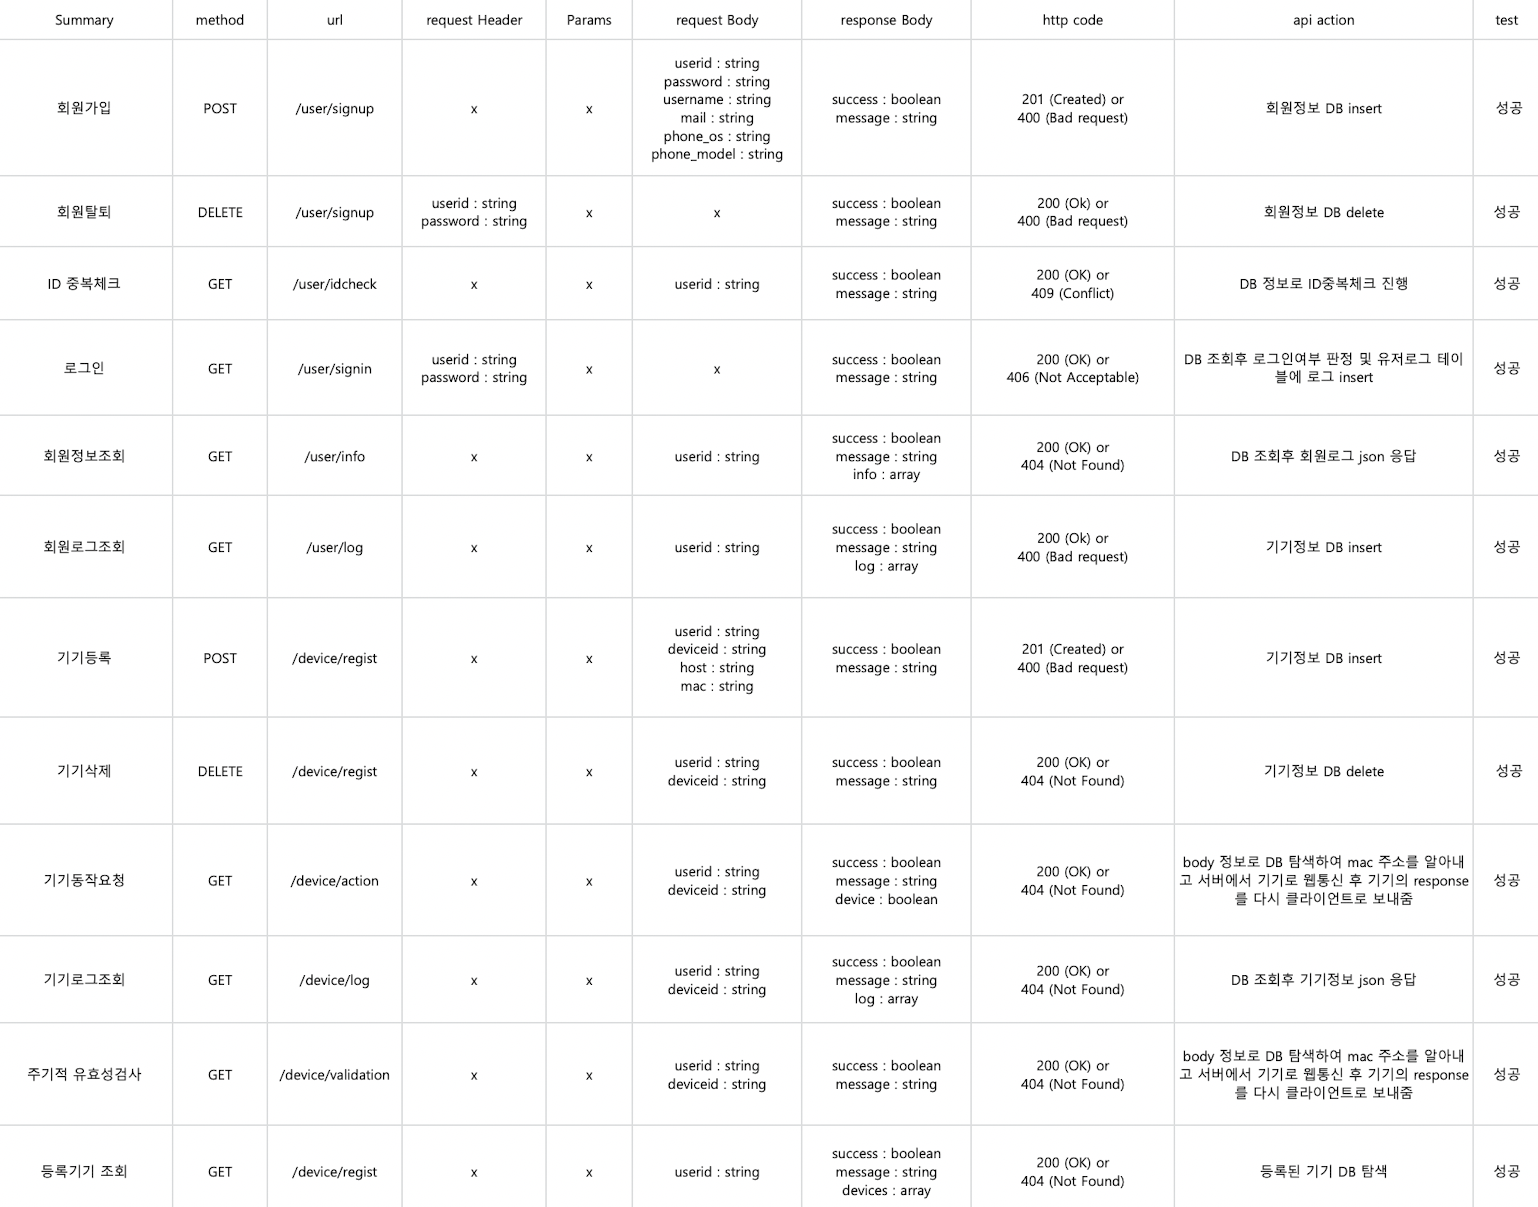
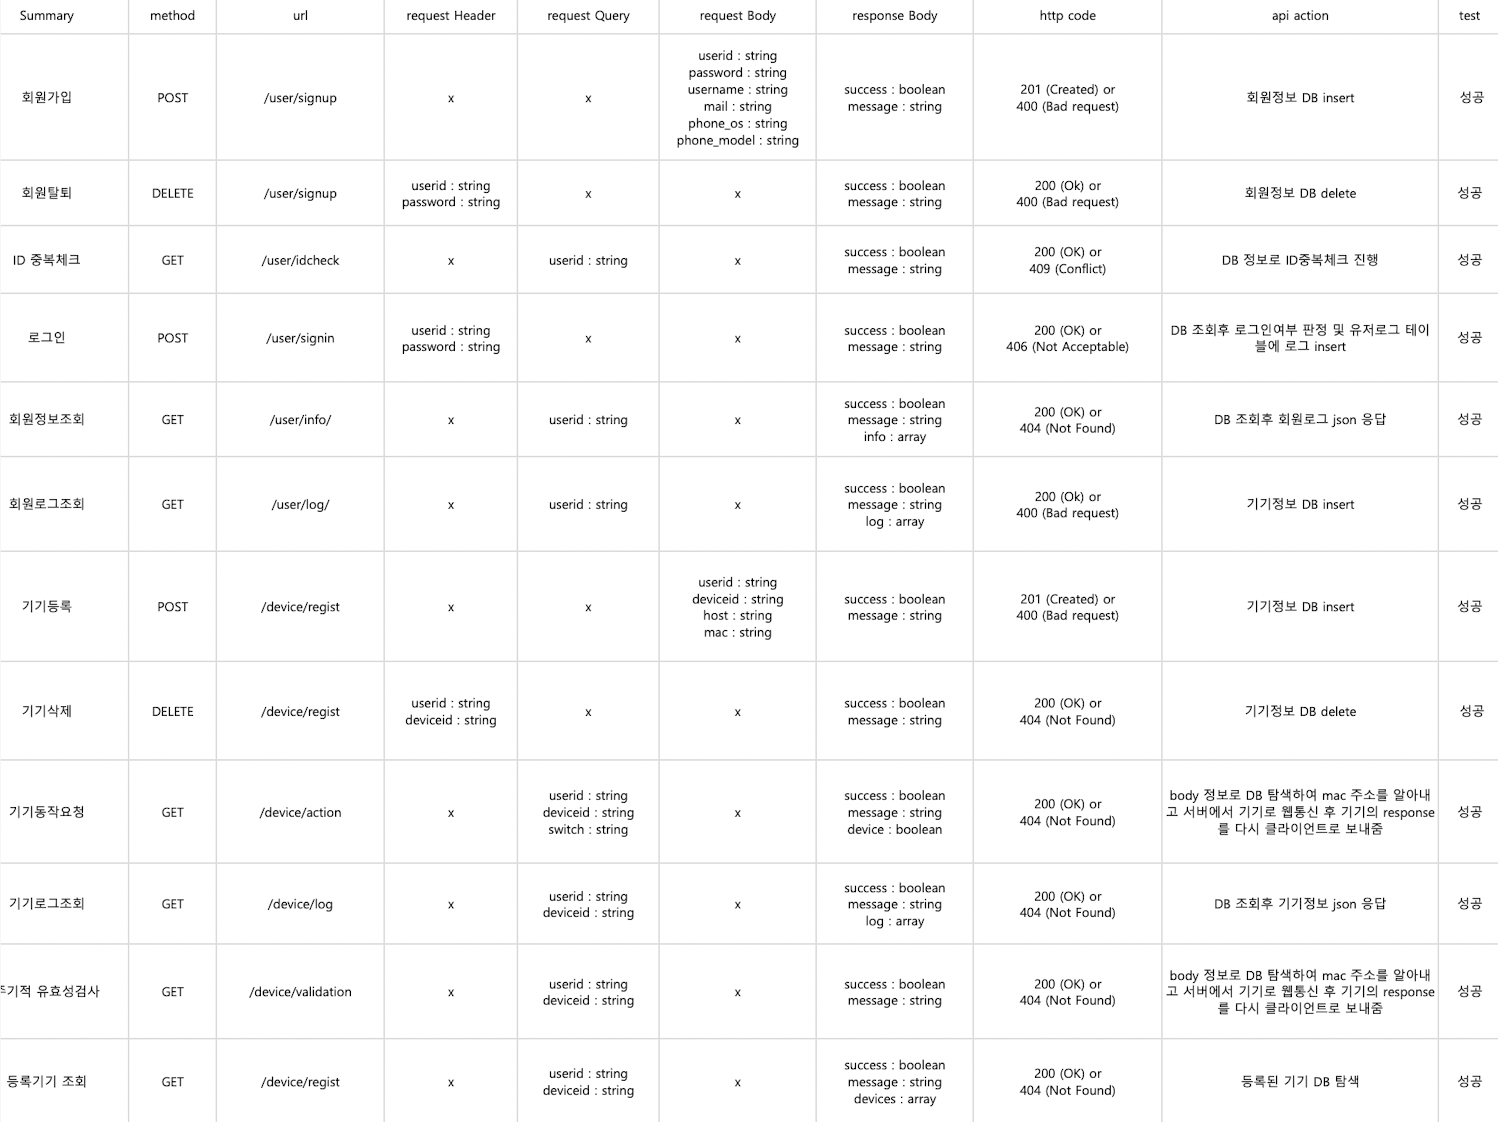
GET 요청 Querystring로 변경

diff --git a/APIserver/routes/device.js b/APIserver/routes/device.js
@@ -15,7 +15,7 @@ router.post('/regist/', async function (req, res, next) {
 
 //기기삭제
 router.delete('/regist', async function (req, res, next) {
-  const result = await db.delDevice(req.body);
+  const result = await db.delDevice(req.headers);
   if (!result.result) {
     res.status(404).json(result.response);
   } else {
@@ -25,7 +25,7 @@ router.delete('/regist', async function (req, res, next) {
 
 //등록기기조회
 router.get('/regist', async function (req, res, next) {
-  const result = await db.getDevices(req.body);
+  const result = await db.getDevices(req.query);
   if (!result) {
     res.status(404).json(result.response);
   } else {
@@ -35,7 +35,7 @@ router.get('/regist', async function (req, res, next) {
 
 //기기로그조회
 router.get('/log', async function (req, res, next) {
-  const result = await db.getDeviceLog(req.body);
+  const result = await db.getDeviceLog(req.query);
   if (!result.result) {
     res.status(404).json(result.response);
   } else {
@@ -45,7 +45,7 @@ router.get('/log', async function (req, res, next) {
 
 //기기동작요청
 router.get('/action', async function (req, res, next) {
-  const result = await db.idToMac(req.body);
+  const result = await db.idToMac(req.query);
   if (!result.result) {
     res.status(404).json(result.response);
   } else {
@@ -72,8 +72,8 @@ router.get('/action', async function (req, res, next) {
       history = '켜짐';
     }
     await db.setDeviceLog({
-      userid: req.body.userid,
-      deviceid: req.body.deviceid,
+      userid: req.query.userid,
+      deviceid: req.query.deviceid,
       history: history,
     });
   }
@@ -81,7 +81,7 @@ router.get('/action', async function (req, res, next) {
 
 //주기적 유효성 검사
 router.get('/validation', async function (req, res, next) {
-  const result = await db.idToMac(req.body);
+  const result = await db.idToMac(req.query);
   if (!result.result) {
     res.status(404).json(result.response);
   } else {
@@ -108,7 +108,7 @@ router.get('/validation', async function (req, res, next) {
 
 //기기동작요청 테스트
 router.get('/actest', async function (req, res, next) {
-  const result = await db.idToMac(req.body);
+  const result = await db.idToMac(req.query);
   if (!result.result) {
     res.status(404).json(result.response);
   } else {
@@ -117,7 +117,7 @@ router.get('/actest', async function (req, res, next) {
       result.response.host,
       3000,
       result.response.mac,
-      req.body,
+      req.query,
     );
     if (macRes.data == '404') {
       res.status(404).json({
@@ -136,8 +136,8 @@ router.get('/actest', async function (req, res, next) {
       history = '켜짐';
     }
     await db.setDeviceLog({
-      userid: req.body.userid,
-      deviceid: req.body.deviceid,
+      userid: req.query.userid,
+      deviceid: req.query.deviceid,
       history: history,
     });
   }

diff --git a/APIserver/routes/user.js b/APIserver/routes/user.js
@@ -23,8 +23,8 @@ router.delete('/signup', async function (req, res, next) {
 });
 
 //id체크(회원가입시)
-router.get('/idcheck', async function (req, res, next) {
-  const result = await db.idchecking(req.body);
+router.get('/idcheck/', async function (req, res, next) {
+  const result = await db.idchecking(req.query);
   if (!result.result) {
     res.status(409).json(result.response);
   } else {
@@ -33,7 +33,7 @@ router.get('/idcheck', async function (req, res, next) {
 });
 
 //로그인
-router.get('/signin', async function (req, res, next) {
+router.post('/signin', async function (req, res, next) {
   const result = await db.signin(req.headers);
   if (!result.result) {
     res.status(406).json(result.response);
@@ -45,7 +45,7 @@ router.get('/signin', async function (req, res, next) {
 
 //회원정보조회
 router.get('/info', async function (req, res, next) {
-  const result = await db.getUserInfo(req.body);
+  const result = await db.getUserInfo(req.query);
   if (!result.result) {
     res.status(404).json(result.response);
   } else {
@@ -55,7 +55,7 @@ router.get('/info', async function (req, res, next) {
 
 //회원로그조회
 router.get('/log', async function (req, res, next) {
-  const result = await db.getUserLog(req.body);
+  const result = await db.getUserLog(req.query);
   if (!result.result) {
     res.status(404).json(result.response);
   } else {

diff --git a/APIserver/routes/index.js b/APIserver/routes/index.js
@@ -10,8 +10,8 @@ router.get('/aa', function (req, res, next) {
   } else {
     state = false;
   }
-  console.log(req.query);
   res.json(state);
+  console.log(req.query);
 });
 
 //테스트 (아두이노 역할 mac=aa 가정)
